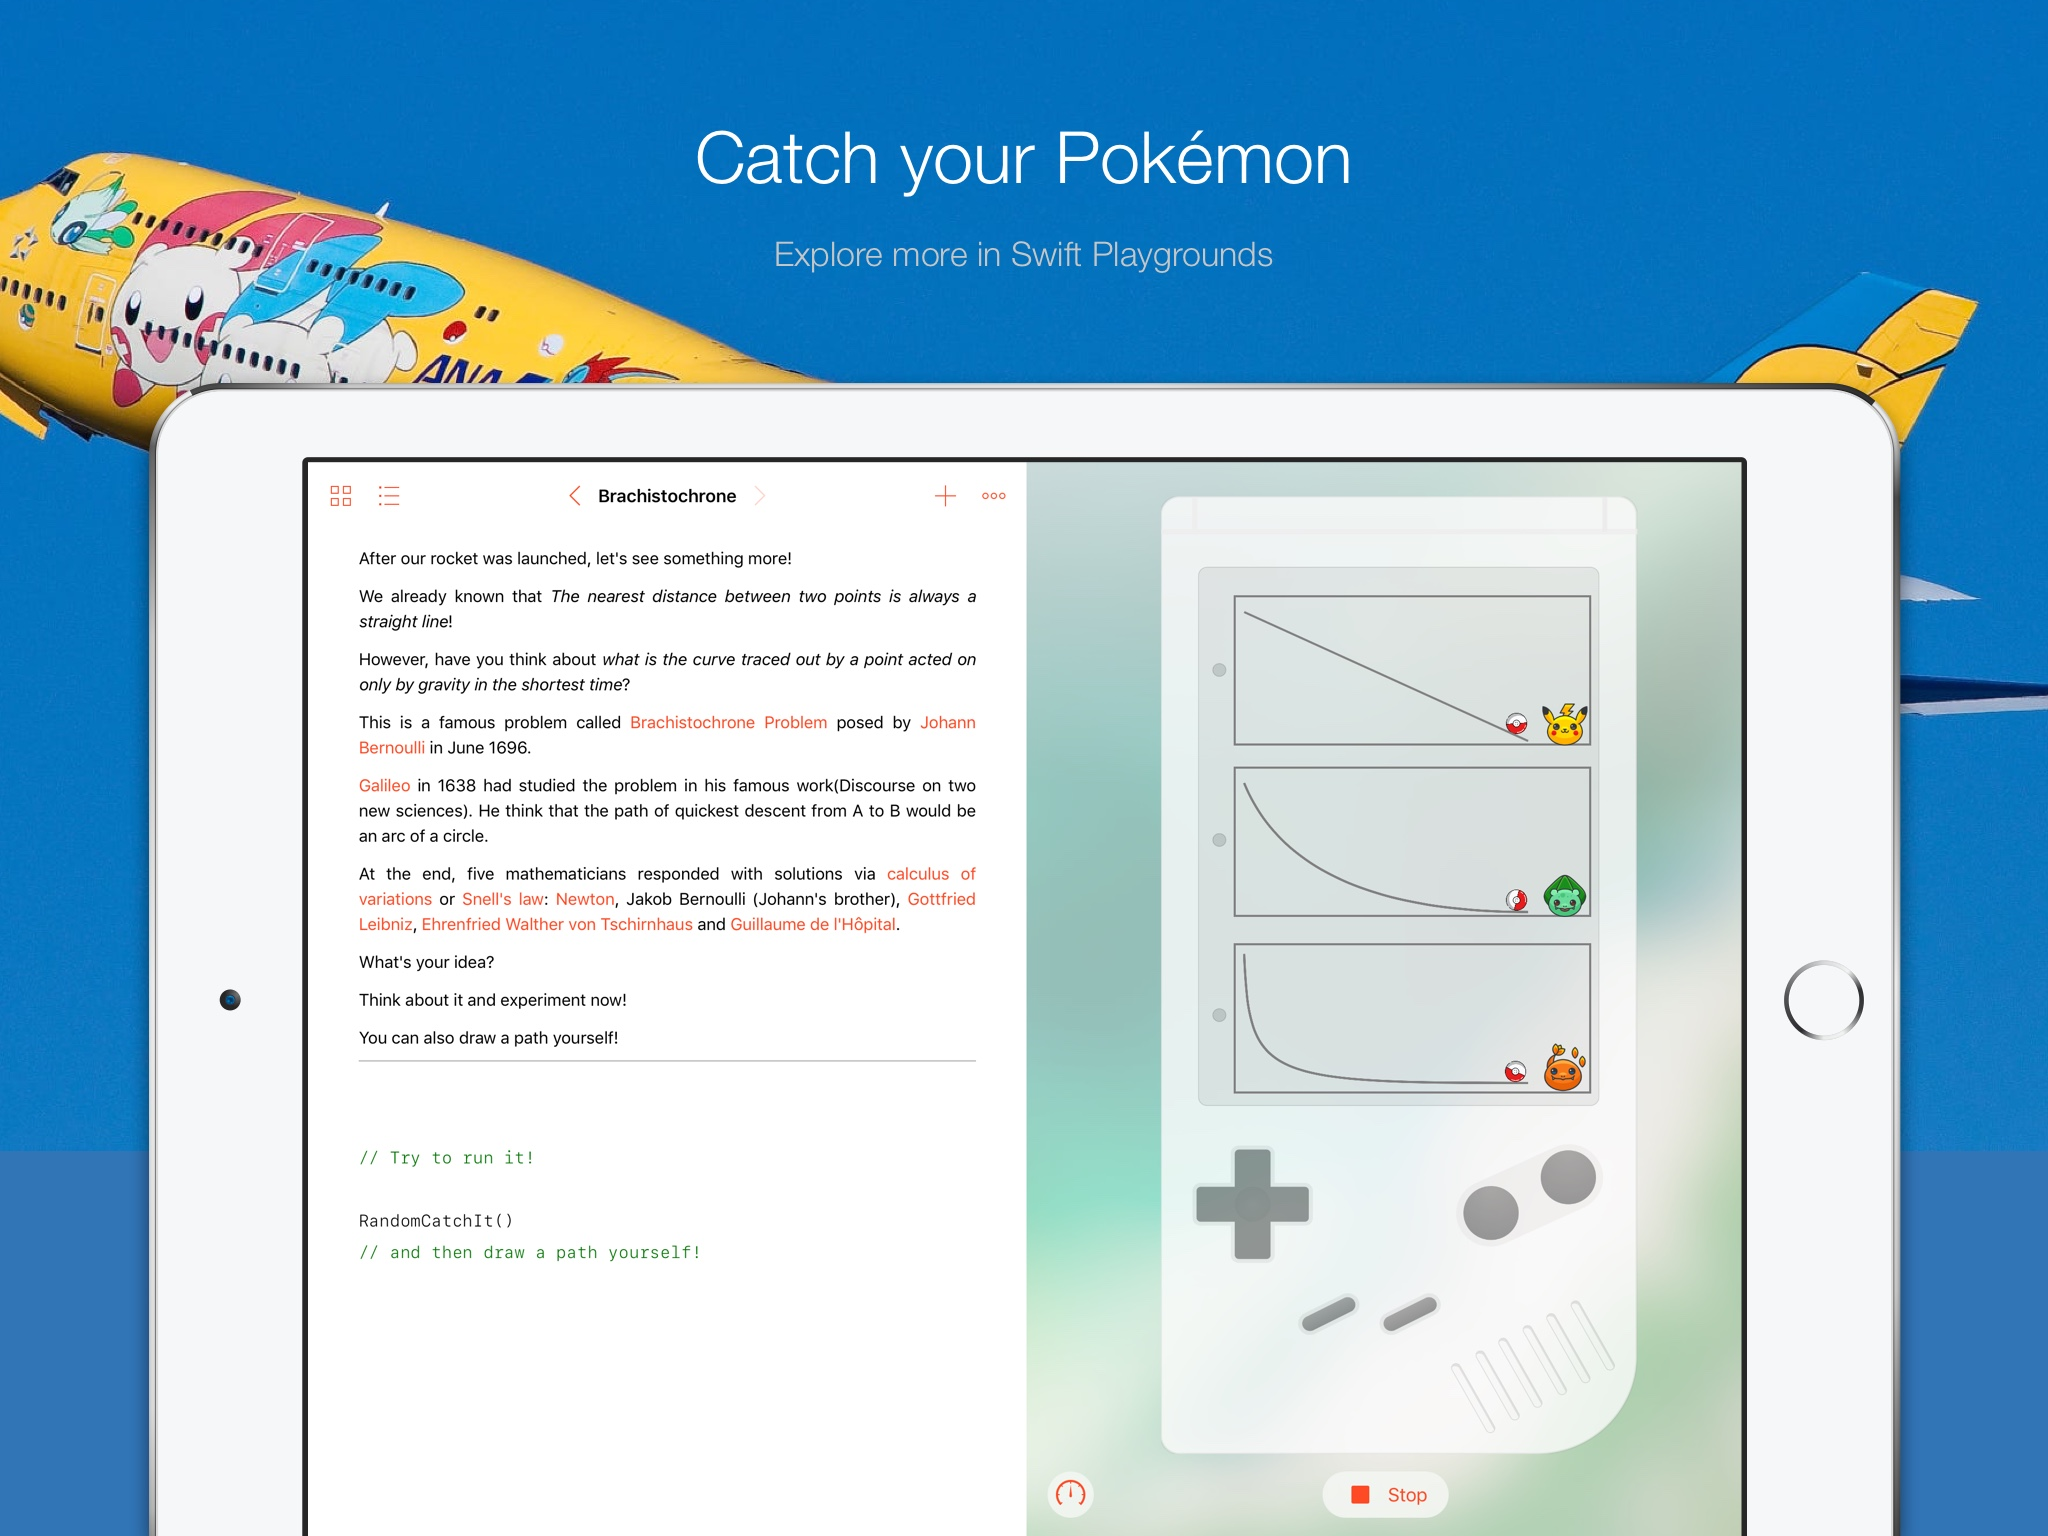
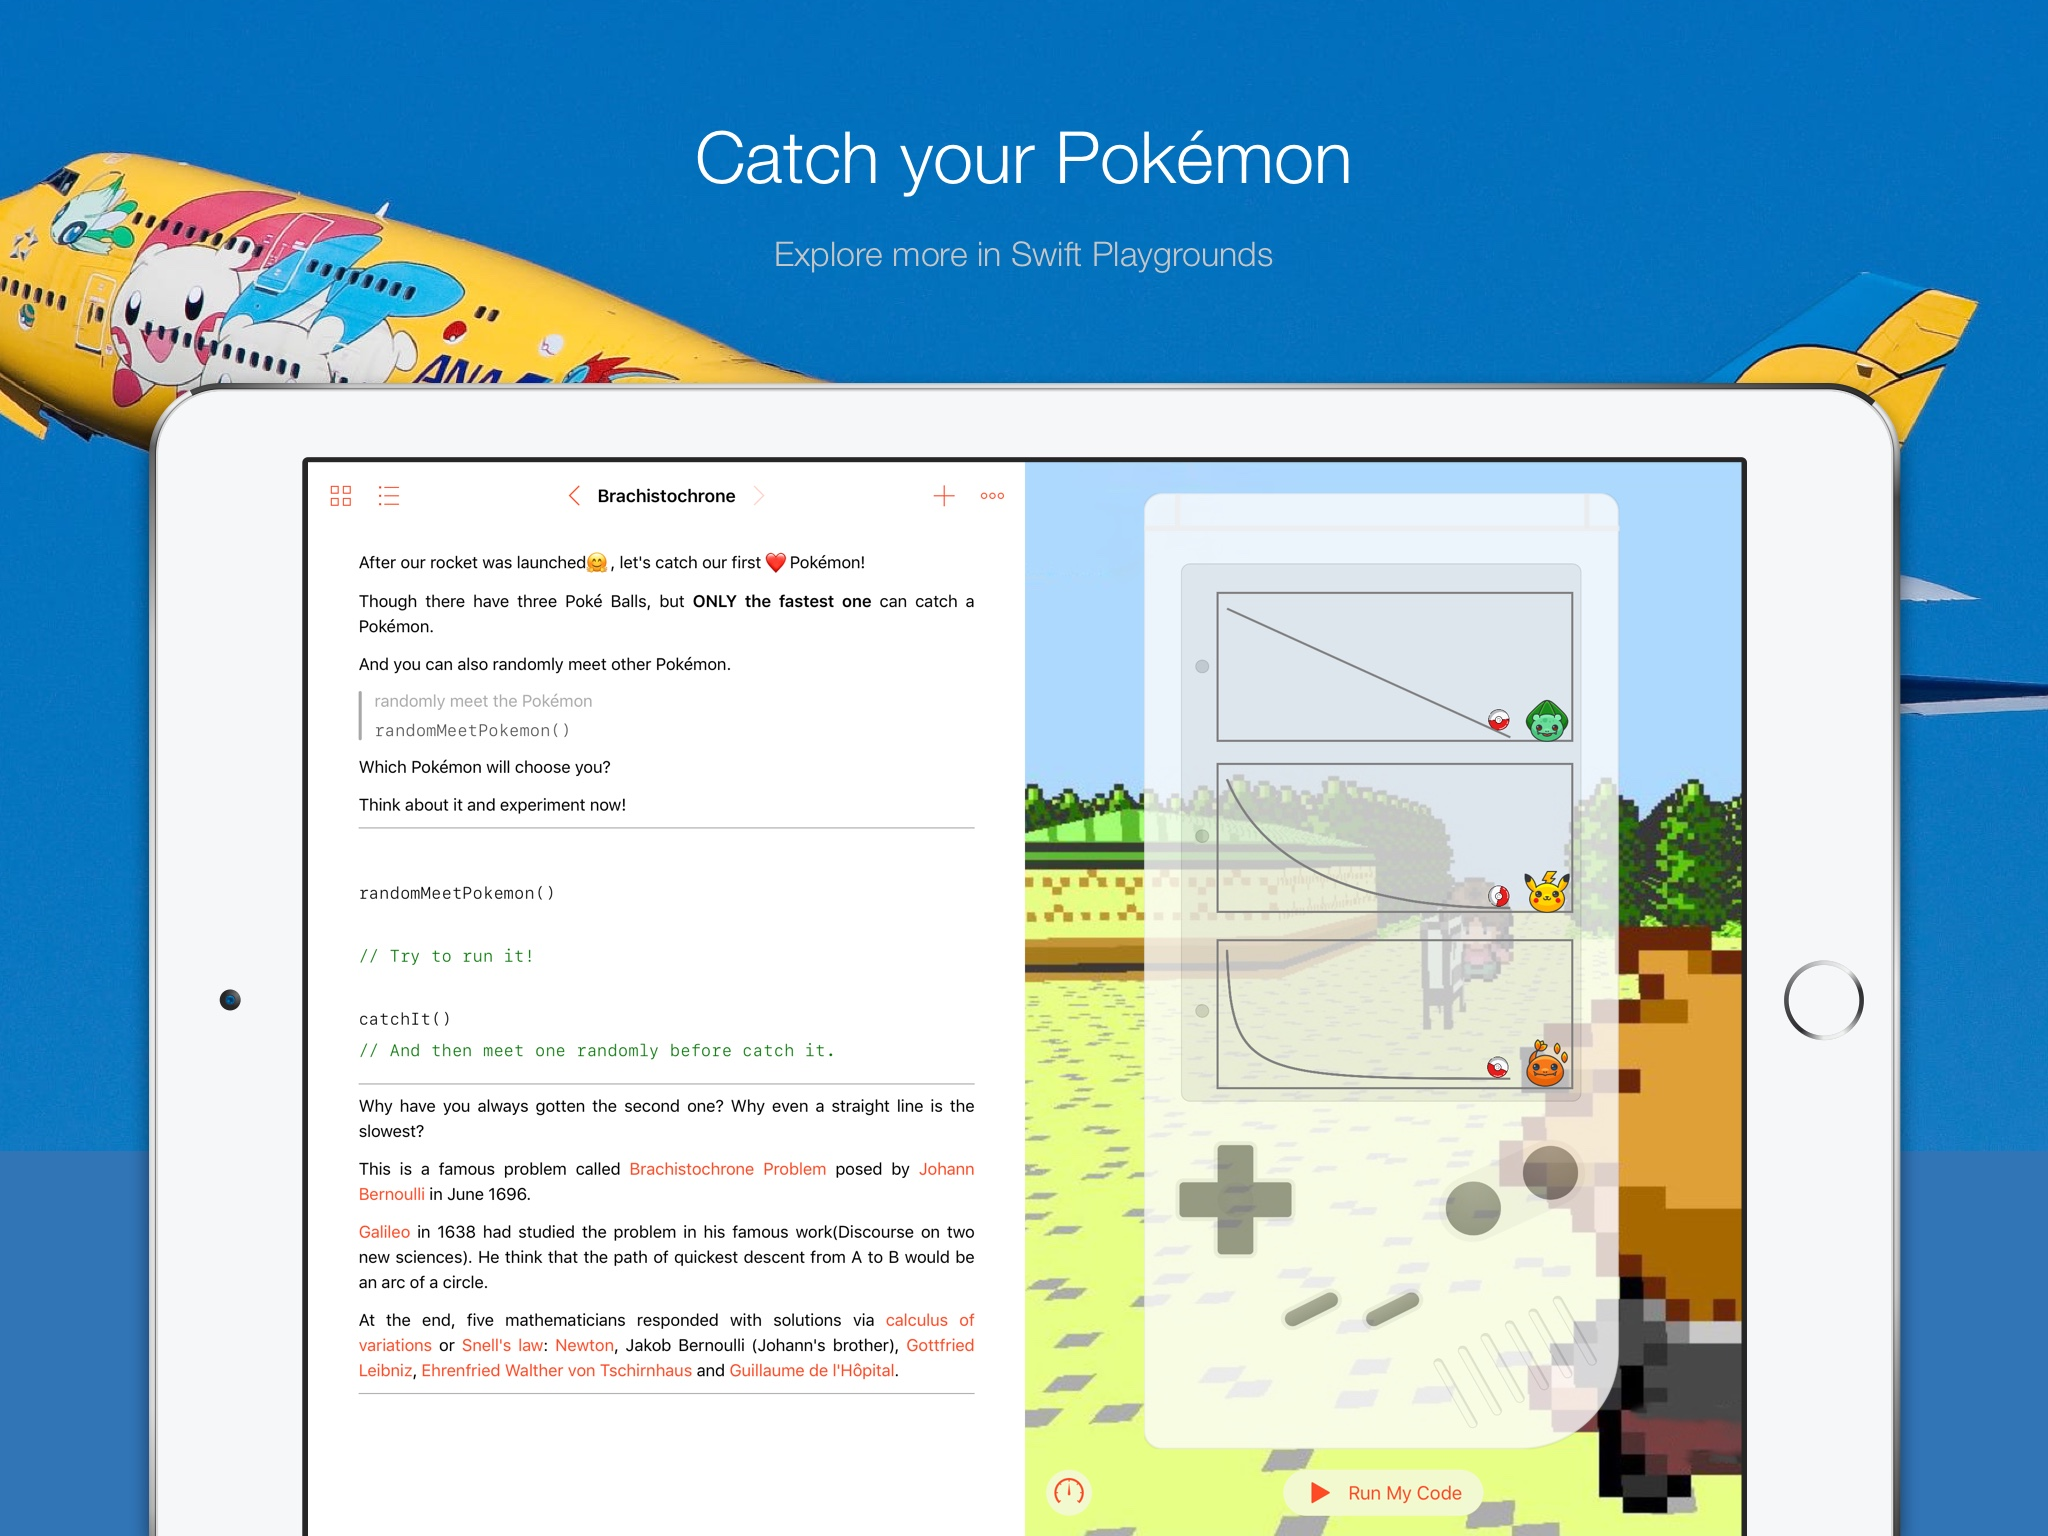
feat(Brachistochrone): refactor the Contents.swift and update Screenshot in README

Changed region(s): [[0.5, 0.2812, 0.875, 1.0], [0.1562, 0.3125, 0.4688, 0.9062]]

diff --git a/Exploring Mechanics.playgroundbook/Contents/Chapters/Mechanics.playgroundchapter/Pages/Brachistochrone.playgroundpage/Contents.swift b/Exploring Mechanics.playgroundbook/Contents/Chapters/Mechanics.playgroundchapter/Pages/Brachistochrone.playgroundpage/Contents.swift
@@ -15,8 +15,8 @@ let proxy = page.liveView as? PlaygroundRemoteLiveViewProxy
 
 page.liveView = BrachistochroneViewController()
 
-func randomPokemon() {
-  proxy?.send(PlaygroundValue.string("randomPokemon"))
+func randomMeetPokemon() {
+  proxy?.send(PlaygroundValue.string("randomMeetPokemon"))
 }
 
 func catchIt() {
@@ -25,33 +25,35 @@ func catchIt() {
 
 //#-end-hidden-code
 /*:
- After our rocket was launched, let's catch our first Pokemon!
+ After our rocket was launched🤗, let's catch our first ❤Pokémon!
  
- We already known that *The nearest distance between two points is always a straight line*! 
+ Though there have three Poké Balls, but **ONLY the fastest one** can catch a Pokémon.
  
- However, have you think about *what is the curve traced out by a point acted on only by gravity in the shortest time*?
+ And you can also randomly meet other Pokémon.
  
- This is a famous problem called [Brachistochrone Problem](glossary://Brachistochrone%20Problem) posed by [Johann Bernoulli](glossary://Johann%20Bernoulli) in June 1696.
+ * callout(randomly meet the Pokémon):
+ `randomMeetPokemon()`
  
- [Galileo](glossary://Galileo) in 1638 had studied the problem in his famous work(Discourse on two new sciences). He think that the path of quickest descent from A to B would be an arc of a circle.
- 
- At the end, five mathematicians responded with solutions via [calculus of variations](glossary://calculus%20of%20variations) or [Snell's law](glossary://Snell's%20law): [Newton](glossary://Newton), Jakob Bernoulli (Johann's brother), [Gottfried Leibniz](glossary://Gottfried%20Leibniz), [Ehrenfried Walther von Tschirnhaus](glossary://Ehrenfried%20Walther%20von%20Tschirnhaus) and [Guillaume de l'Hôpital](glossary://Guillaume%20de%20l'Hopital).
- 
- What's your idea?
+ Which Pokémon will choose you?
  
  Think about it and experiment now!
  
- You can also draw a path yourself!
- 
  */
+//#-code-completion(everything, hide)
+//#-code-completion(identifier, show, randomMeetPokemon())
 
-//#-editable-code
+
 
 // Try to run it!
 
 catchIt()
+// And then meet one randomly before catch it.
+/*:
+ Why have you always gotten the second one? Why even a straight line is the slowest?
 
-//#-code-completion(identifier, show, RandomCatchIt())
+ This is a famous problem called [Brachistochrone Problem](glossary://Brachistochrone%20Problem) posed by [Johann Bernoulli](glossary://Johann%20Bernoulli) in June 1696.
 
-// and then catch one randoly by yourself!
-//#-end-editable-code
+ [Galileo](glossary://Galileo) in 1638 had studied the problem in his famous work(Discourse on two new sciences). He think that the path of quickest descent from A to B would be an arc of a circle.
+
+ At the end, five mathematicians responded with solutions via [calculus of variations](glossary://calculus%20of%20variations) or [Snell's law](glossary://Snell's%20law): [Newton](glossary://Newton), Jakob Bernoulli (Johann's brother), [Gottfried Leibniz](glossary://Gottfried%20Leibniz), [Ehrenfried Walther von Tschirnhaus](glossary://Ehrenfried%20Walther%20von%20Tschirnhaus) and [Guillaume de l'Hôpital](glossary://Guillaume%20de%20l'Hopital).
+*/

diff --git a/Exploring Mechanics.playgroundbook/Contents/Chapters/Mechanics.playgroundchapter/Sources/BrachistochroneViewController.swift b/Exploring Mechanics.playgroundbook/Contents/Chapters/Mechanics.playgroundchapter/Sources/BrachistochroneViewController.swift
@@ -42,7 +42,6 @@ public class BrachistochroneViewController: UIViewController, UICollisionBehavio
     let bgView = UIImageView()
     bgView.frame = self.view.bounds
     bgView.image = UIImage(named: "bg.jpg")
-    bgView.alpha = 0.8
     bgView.contentMode = .scaleAspectFill
     self.view.addSubview(bgView)
     animationView.frame = self.view.bounds

diff --git a/Exploring Mechanics.playgroundbook/Contents/Chapters/Mechanics.playgroundchapter/Pages/CircularMotion.playgroundpage/Contents.swift b/Exploring Mechanics.playgroundbook/Contents/Chapters/Mechanics.playgroundchapter/Pages/CircularMotion.playgroundpage/Contents.swift
@@ -54,7 +54,6 @@ func launchRocket() {
  2. Fire🔥 with the function `launchRocket()` !
  
  */
-
 //#-code-completion(everything, hide)
 //#-code-completion(identifier, show, sqrt())
 rocketSpeed = /*#-editable-code*/0.0/*#-end-editable-code*/
